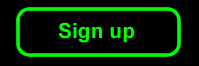
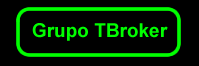
Add files via upload

Changed region(s): [[0.1508, 0.3333, 0.8442, 0.6667]]

diff --git a/index.html b/index.html
@@ -66,7 +66,7 @@ function MM_swapImage() { //v3.0
   <tr>
     <td width="20">&nbsp;</td>
     <td width="20">&nbsp;</td>
-    <td width="781"><div align="right"><a href="alertnouser.png" target="_blank" onmouseover="MM_swapImage('GeckoBoton','','gecko2.png',1)" onmouseout="MM_swapImgRestore()"><img src="gecko1.png" name="GeckoBoton" width="199" height="66" border="0" id="GeckoBoton" /></a><a href="alertnouser.png" target="_blank"></a><a href="https://wa.link/lpdekp" target="_blank" onmouseover="MM_swapImage('Gecko22','','gecko4.png',1)" onmouseout="MM_swapImgRestore()"><img src="gecko3.png" name="Gecko22" width="199" height="66" border="0" id="Gecko22" /></a><a href="#" onmouseout="MM_swapImgRestore()" onmouseover="MM_swapImage('GeckoYA','','gecko4.png',1)"></a></div></td>
+    <td width="781"><div align="right"><a href="https://wa.link/lpdekp" target="_blank" onmouseover="MM_swapImage('GeckoBoton','','gecko2.png',1)" onmouseout="MM_swapImgRestore()"><img src="gecko1.png" name="GeckoBoton" width="199" height="66" border="0" id="GeckoBoton" /></a><a href="alertnouser.png" target="_blank"></a><a href="https://chat.whatsapp.com/HpcYf6xydQWJZG8ysHgyQT" target="_blank" onmouseover="MM_swapImage('Gecko22','','gecko4.png',1)" onmouseout="MM_swapImgRestore()"><img src="gecko3.png" name="Gecko22" width="199" height="66" border="0" id="Gecko22" /></a><a href="#" onmouseout="MM_swapImgRestore()" onmouseover="MM_swapImage('GeckoYA','','gecko4.png',1)"></a></div></td>
     <td width="203">&nbsp;</td>
   </tr>
 </table>
